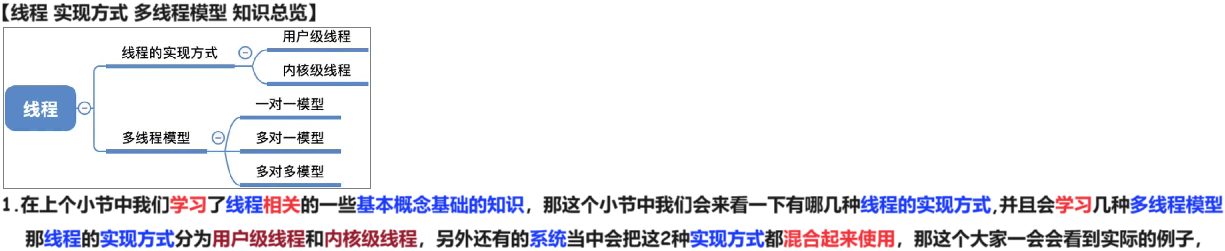
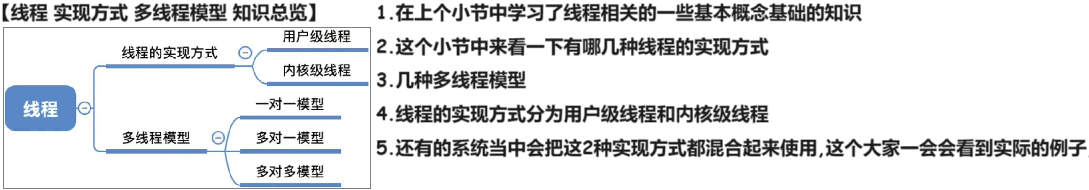
240614

diff --git a/01 初试/01 OS/02 24 25 王道/01 基础/02 进程 线程/01 进程 线程/06 线程 实现方式 多线程模型 240614/02 消化/02 Doc.md b/01 初试/01 OS/02 24 25 王道/01 基础/02 进程 线程/01 进程 线程/06 线程 实现方式 多线程模型 240614/02 消化/02 Doc.md
@@ -4,7 +4,7 @@
 
 # 01 线程 实现方式 多线程模型 知识总览
 
-<img src="https://cvp.oss-cn-shanghai.aliyuncs.com/picgo/202405121446916.png" alt="image-20240512144609827" style="zoom:50%;" />
+<img src="https://cvp.oss-cn-shanghai.aliyuncs.com/picgo/202406141700257.png" alt="image-20240614170009136" style="zoom:50%;" />
 
 
 
